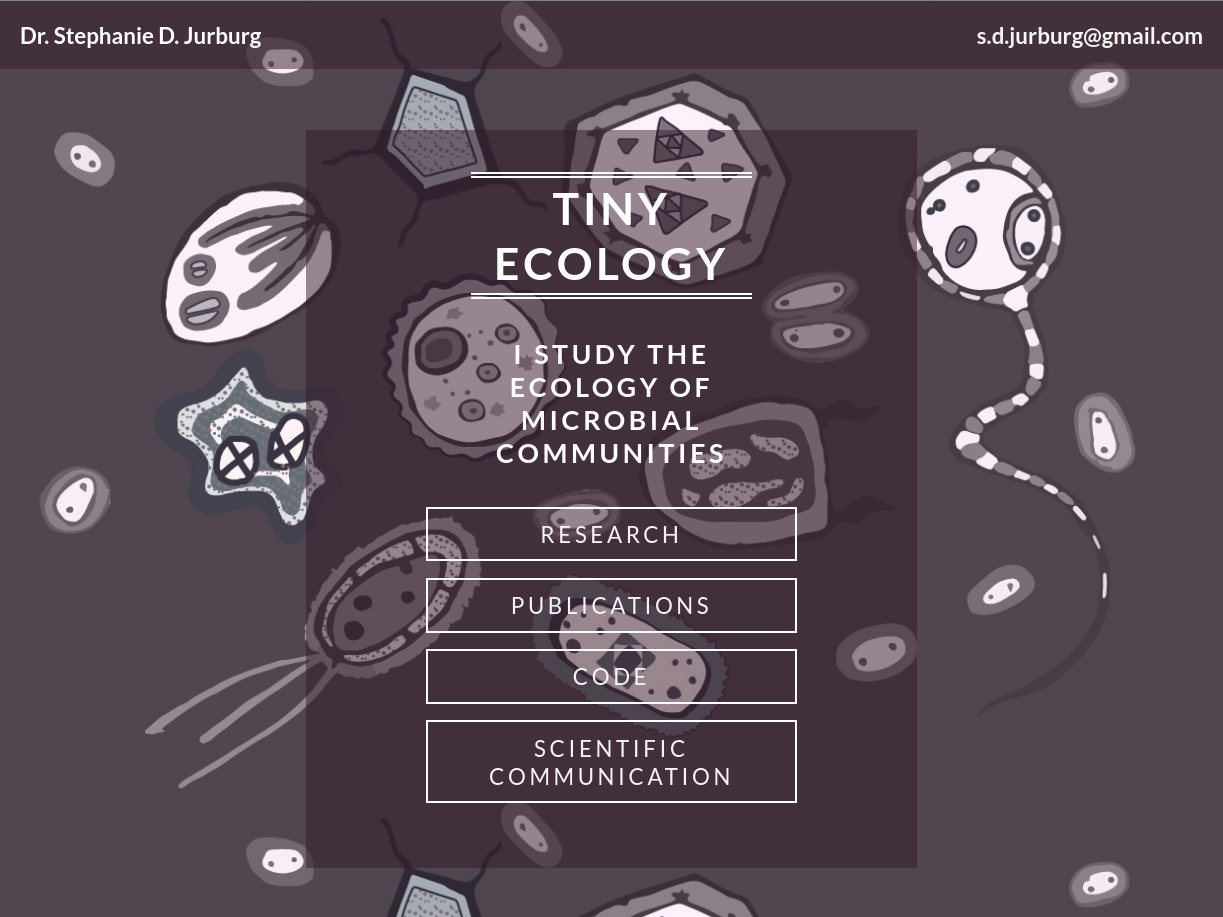
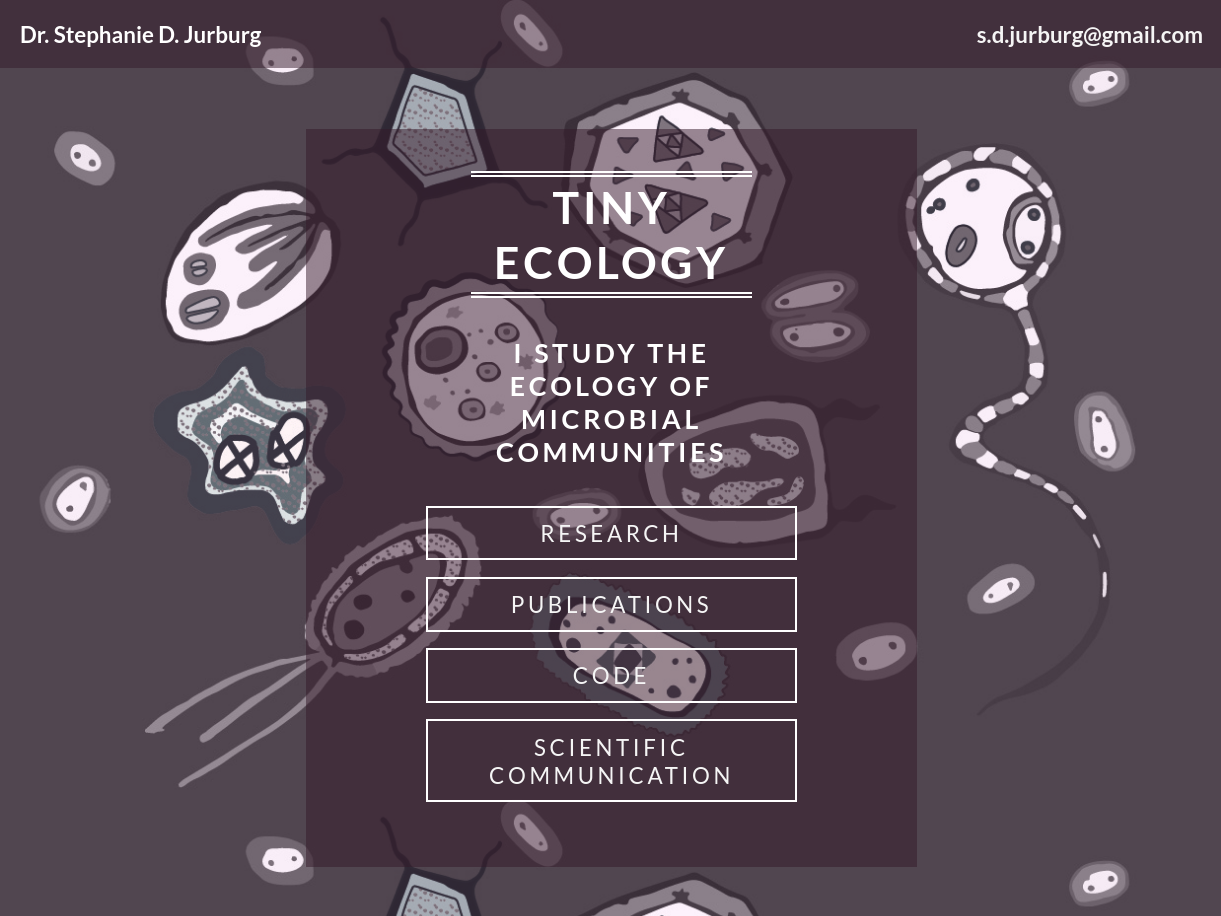
done for the second day

diff --git a/src/scss/main.scss b/src/scss/main.scss
@@ -2,10 +2,26 @@ $bg-color: #212529;
 $text-color: #AB9F8D;
 $bgt-color: #21252998;
 $text-shadow: #3F3A32;
+$sharp-shadow: #7B7162;
+
+$effect-border: #7B7162;
+$effect-shadow:  #AB9F8D;
+$effect-text: #3F3A32;
 
 // This is where you can import other stylesheets or write your scss code
 @import "../../node_modules/bootstrap/scss/bootstrap";
 
+* {
+    scroll-behavior: smooth;
+}
+
+body {
+    margin-top: 56px;
+}
+
+section {
+    padding-top: 56px;
+}
 
 main {
     background-color: $bg-color;
@@ -18,16 +34,25 @@ main {
         display: flex;
         justify-content: space-between;
         list-style: none;
-        width: 50%;
+        width: 60%;
     }
 }
 
 .hero {
     display: flex;
-    h1 {
+    .swing {
         flex-grow: 1;
         flex-basis: 150px;
+        h1 {
+            animation: swing linear 5s infinite;
+            overflow: hidden;
+        }
     }
+
+    .swing:hover h1, .swing:active h1 {
+        animation-play-state: paused;
+    }
+
     .heroimg {
         width: 180px;
         height: 300px;
@@ -39,8 +64,19 @@ main {
     }
 }
 
-/* ANIMATE BACKGROUND 50 TO 78 */
-    /* background-image: radial-gradient(circle at 60% 30%, transparent 0%, $bg-color 60%, $bg-color 100%), url(../images/hero1.gif); */
+@keyframes swing {
+    0%, 100% {
+        transform: translate(0, 0);
+    }
+    33% {
+        transform: translate(0, 50px);
+    }
+  
+    66% {
+        transform: translate(0, -50px);
+    }
+}
+
 @keyframes background-circle {
     
     0%, 100% { 
@@ -59,11 +95,12 @@ main {
         display: block;
         width: 100%;
         height: 67.5vw;
-        margin-top: 15px;
+        margin-top: 10px;
         .frame {
             width: 100%;
             height: 100%;
             background-size: contain;
+            border-radius: 5px;
             .inner {
                 width: 100%;
                 height: 100%;
@@ -71,7 +108,11 @@ main {
                 h3, p {
                     text-align: center;
                     color: $text-color;
-                    text-shadow: 0 2px 2px $text-shadow, 0 -2px 2px $text-shadow, 2px 0 2px $text-shadow, -2px 0 2px $text-shadow;
+                    text-shadow: 0 3px 3px $text-shadow, 0 -3px 3px $text-shadow, 3px 0 3px $text-shadow, -3px 0 3px $text-shadow;
+                }
+                hr {
+                    color: $text-color;
+                    height: 2px;
                 }
                 p {
                     font-size: 1em;
@@ -81,8 +122,18 @@ main {
     }
 }
 
+#social {
+    padding-bottom: 3rem;
+    a {
+        color: $text-color;
+        i {
+            font-size: 3rem;
+        }
+    }
+}
+
 @include media-breakpoint-up(sm) {
-    .heroimg {
+    .hero .heroimg {
         width: 250px;
         background-image: radial-gradient(circle at 60%, transparent 0%, $bg-color 60%, $bg-color 100%), url(../images/hero1.gif);
         margin-right: 60px;
@@ -95,6 +146,7 @@ main {
     #work h2, #social h2 {
         margin-left: 10%;
     }
+
     .pages {
         display: flex;
         flex-wrap: wrap;
@@ -107,14 +159,122 @@ main {
     }
 }
 
-.social {
-    padding-bottom: 3rem;
-    a {
-        color: $text-color;
-        i {
-            font-size: 3rem;
+@include media-breakpoint-up(lg) {
+    .swing h1 {
+        text-shadow: 7px 0 10px transparent, 0 -7px 10px transparent, 0 7px 10px transparent, -7px 0 10px transparent;
+        transition: 300ms;
+    }
+
+    .swing:hover h1, .swing:active h1 {
+        text-shadow: 7px 0 10px $sharp-shadow, 0 -7px 10px $sharp-shadow, 0 7px 10px $sharp-shadow, -7px 0 10px $sharp-shadow;
+    }
+    
+    .hero .heroimg {
+        width: 330px;
+        height: 350px;
+        margin-right: 100px;
+    }
+
+    .pages a { 
+        width: 420px;
+        height: 315px;
+        .frame {
+            overflow: hidden;
+            .inner {
+                height: 422px;
+                width: 102%;
+                margin-left: -1%;
+                transform: translateY(421px);
+                transition: 300ms;
+                p {
+                    font-size: 1.2em;
+                }
+            }
         }
     }
+
+    .pages a:hover { 
+        .frame .inner {
+            transform: translateY(-1px);    
+        }
+    }
+
+    #social a {
+        text-shadow: 7px 0 10px transparent, 0 -7px 10px transparent, 0 7px 10px transparent, -7px 0 10px transparent;
+        transition: 300ms;
+    }
+
+    #social a:hover {
+        text-shadow: 7px 0 10px $sharp-shadow, 0 -7px 10px $sharp-shadow, 0 7px 10px $sharp-shadow, -7px 0 10px $sharp-shadow;
+    }
+
+/* animation on h1 */
+    .swing h1:hover {
+        color: $effect-text;
+        background-color: $effect-shadow;
+        box-shadow: 0 0 20px $effect-shadow, 0 0 80px $effect-shadow, 0 0 160px $effect-shadow,
+        0 0 320px $effect-shadow;
+        border-radius: 60px;
+        transition-delay: 1500ms;
+    }
+    
+    .swing h1 > span {
+        position: absolute;
+        display: block;
+    }
+    
+    .swing h1 > span:nth-child(1) {
+        top: 0;
+        transform: translateX(-118%);
+        width: 100%;
+        height: 4px;
+        background: linear-gradient(90deg, transparent, $effect-shadow);
+    }
+    
+    .swing h1:hover > span:nth-child(1) {
+        transform: translateX(100%);
+        transition: 1500ms;
+    }
+    
+    .swing h1 > span:nth-child(2) {
+        top: calc(100% - 4px);
+        transform: translateX(100%);
+        width: 100%;
+        height: 4px;
+        background: linear-gradient(270deg, transparent, $effect-shadow);
+    }
+    
+    .swing h1:hover > span:nth-child(2) {
+        transform: translateX(-115%);
+        transition: 1500ms 750ms;
+    }
+    
+    .swing h1 > span:nth-child(3) {
+        left: calc(100% - 4px);
+        transform: translateY(-138%);
+        width: 4px;
+        height: 100%;
+        background: linear-gradient(180deg, transparent, $effect-shadow);
+    }
+    
+    .swing h1:hover > span:nth-child(3) {
+        transform: translateY(100%);
+        transition: 1500ms 375ms;
+    }
+    
+    .swing h1 > span:nth-child(4) {
+        left: 0;
+        transform: translateY(100%);
+        width: 4px;
+        height: 100%;
+        background: linear-gradient(360deg, transparent, $effect-shadow);
+    }
+    
+    .swing h1:hover > span:nth-child(4) {
+        transform: translateY(-130%);
+        transition: 1500ms 1125ms;
+    }
+
 }
 
 

diff --git a/src/index.html b/src/index.html
@@ -10,26 +10,26 @@
     <link rel="icon" type="image/png" href="./images/favicon.png"/>
   </head>
   <body>
-    <header class="sticky-top">
+    <header class="fixed-top">
       <nav class="navbar navbar-expand-lg navbar-dark bg-dark">
         <div class="container-fluid">
-          <a class="navbar-brand" href="#">André</a>
+          <a class="navbar-brand" id="andre" href="#">André</a>
           <button class="navbar-toggler" type="button" data-bs-toggle="collapse" data-bs-target="#navbarSupportedContent" aria-controls="navbarSupportedContent" aria-expanded="false" aria-label="Toggle navigation">
             <span class="navbar-toggler-icon"></span>
           </button>
           <div class="collapse navbar-collapse d-lg-flex justify-content-end" id="navbarSupportedContent">
             <ul class="navbar-nav me-auto mb-2 mb-lg-0">
               <li class="nav-item">
-                <a class="nav-link active" aria-current="page" href="#about">About</a>
+                <a class="nav-link" aria-current="page" id="about-btn" href="#about"><i class="fas fa-user"></i> About Me</a>
               </li>
               <li class="nav-item">
-                <a class="nav-link" href="#skills">Skills</a>
+                <a class="nav-link" id="skills-btn" href="#skills"><i class="fas fa-code"></i> Skills</a>
               </li>
               <li class="nav-item">
-                <a class="nav-link" href="#work">Work</a>
+                <a class="nav-link" id="work-btn" href="#work"><i class="fas fa-briefcase"></i> Work</a>
               </li>
               <li class="nav-item">
-                <a class="nav-link" href="#social">Contact</a>
+                <a class="nav-link" id="social-btn" href="#social"><i class="fas fa-address-card"></i> Contact</a>
               </li>
             </ul>
           </div>
@@ -37,12 +37,18 @@
       </nav>
     </header>
 
-    <main id="about">
+    <main>
       
-      <div class="hero p-1">
-        <h1 class="text-center d-flex align-items-center justify-content-center p-2">I create websites</h1>
-        <div class="heroimg"></div>
-      </div>
+      <section id="about">
+        <div class="hero p-1">
+          <div class="text-center d-flex align-items-center justify-content-center p-2 swing">
+            <h1 class="p-4"><span></span><span></span><span></span><span></span>
+              I create websites
+            </h1>
+          </div>
+          <div class="heroimg"></div>
+        </div>
+      </section>
 
       <section class="languages" id="skills">
         <h2 class="p-2">Languages I speak</h2>
@@ -52,6 +58,7 @@
           <li><div>SASS</div><div><i class="fas fa-star"></i><i class="fas fa-star"></i><i class="fas fa-star"></i><i class="fas fa-star"></i><i class="fas fa-star"></i></div></li>
           <li><div>Python</div><div><i class="fas fa-star"></i><i class="fas fa-star"></i><i class="fas fa-star"></i><i class="far fa-star"></i><i class="far fa-star"></i></div><li>
           <li><div>C</div><div><i class="fas fa-star"></i><i class="fas fa-star"></i><i class="far fa-star"></i><i class="far fa-star"></i><i class="far fa-star"></i></div></li>
+          <li><div>JavaScript</div><div><i class="fas fa-star"></i><i class="far fa-star"></i><i class="far fa-star"></i><i class="far fa-star"></i><i class="far fa-star"></i></div></li>
         </ul>
       </section>
       <section id="work">
@@ -59,7 +66,7 @@
         <div class="pages mx-auto">
           <a href="https://andreglock.github.io/WDclasses/index.html" target="blank">
             <div class="frame" id="codelicious">
-              <div class="inner p-3">
+              <div class="inner p-3 px-lg-4 py-lg-5">
                 <h3>Codelicious Classes</h3>
                 <hr>
                 <p>
@@ -131,5 +138,6 @@
     <!-- Custom scripts, edit above this line -->
     <script src="https://cdn.jsdelivr.net/npm/bootstrap@5.0.0-beta2/dist/js/bootstrap.bundle.min.js" integrity="sha384-b5kHyXgcpbZJO/tY9Ul7kGkf1S0CWuKcCD38l8YkeH8z8QjE0GmW1gYU5S9FOnJ0" crossorigin="anonymous"></script>
     <script src="scripts/index.js"></script>
+    <script src="scripts/active.js"></script>
   </body>
 </html>

diff --git a/src/scripts/active.js b/src/scripts/active.js
@@ -1,0 +1,53 @@
+let about = document.getElementById("about-btn")
+let skills = document.getElementById("skills-btn")
+let work = document.getElementById("work-btn")
+let social = document.getElementById("social-btn")
+let andre = document.getElementById("andre")
+
+andre.addEventListener("click", andreclass)
+function andreclass(){
+    about.classList.remove("active")
+    skills.classList.remove("active")
+    work.classList.remove("active")
+    social.classList.remove("active")
+}
+
+about.addEventListener("click", activeclass)
+function activeclass(){
+    about.classList.add("active")
+    skills.classList.remove("active")
+    work.classList.remove("active")
+    social.classList.remove("active")
+/*     about.style.borderBottom = "red 2px solid"
+    skills.style.borderBottom = "none" */
+}
+
+skills.addEventListener("click", skillclass)
+function skillclass(){
+    skills.classList.add("active")
+    about.classList.remove("active")
+    work.classList.remove("active")
+    social.classList.remove("active")
+/*     skills.style.borderBottom = "red 2px solid"
+    about.style.borderBottom = "none" */
+}
+
+work.addEventListener("click", workclass)
+function workclass(){
+    skills.classList.remove("active")
+    about.classList.remove("active")
+    work.classList.add("active")
+    social.classList.remove("active")
+    skills.style.borderBottom = "none"
+    about.style.borderBottom = "none"
+}
+
+social.addEventListener("click", socialclass)
+function socialclass(){
+    skills.classList.remove("active")
+    about.classList.remove("active")
+    work.classList.remove("active")
+    social.classList.add("active")
+    skills.style.borderBottom = "none"
+    about.style.borderBottom = "none"
+}
